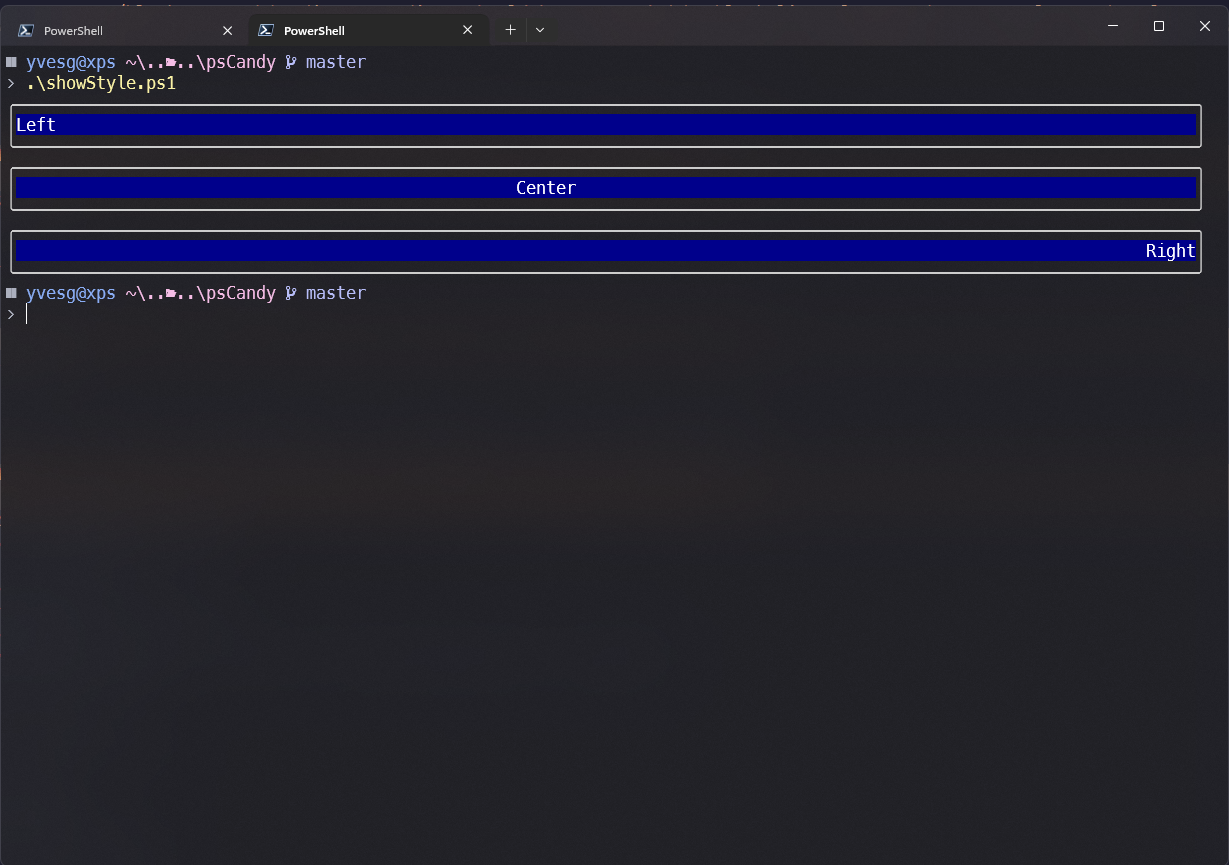
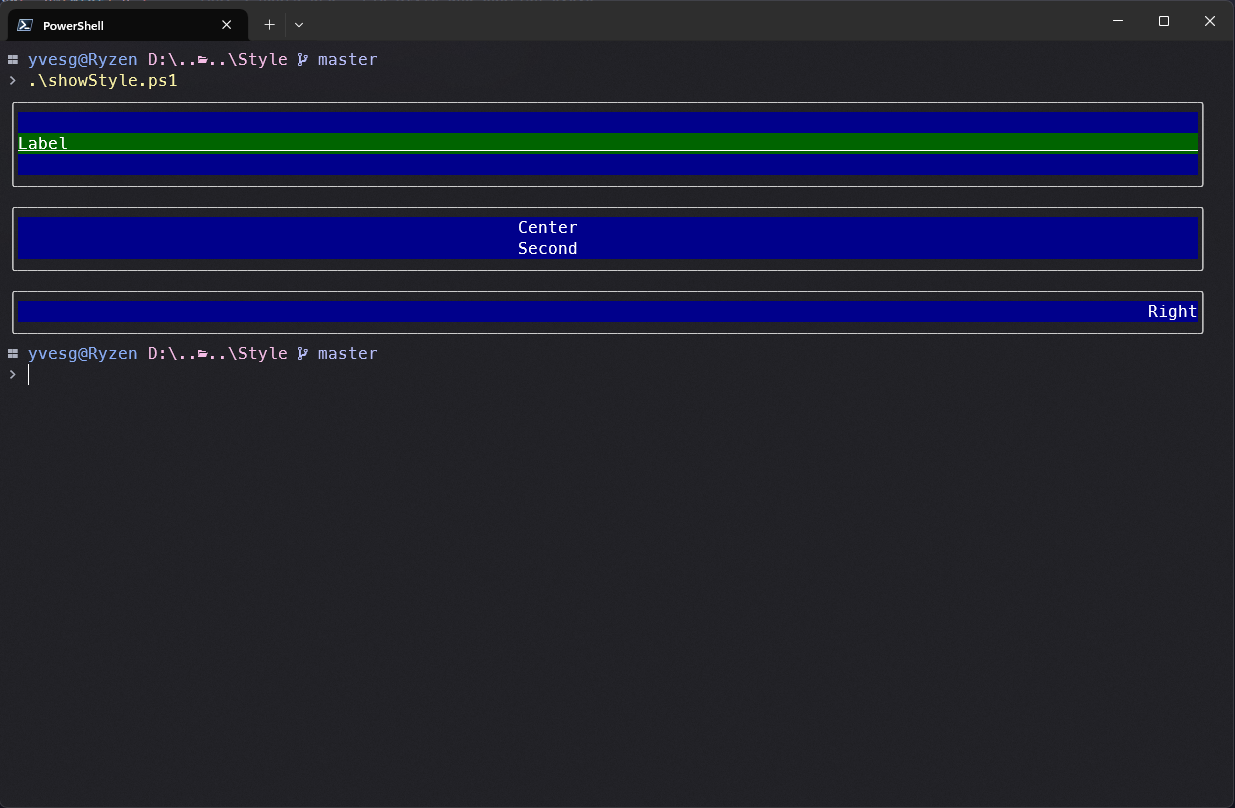
Readme

diff --git a/Readme.md b/Readme.md
@@ -502,13 +502,17 @@ Example :
 ```
 using module psCandy
 
-$Style = [Style]::new("Left")
+$label = [Style]::new("Label")
+$Label.SetColor([System.Drawing.Color]::White, [System.Drawing.Color]::DarkGreen)
+$Label.SetStyle([Styles]::Underline)
+$lbl = $Label.Render()
+$Style = [Style]::new("`n$($lbl)`n")
 # $Style.SetStyle([Styles]::Underline)
 $Style.SetBorder($true)
 $Style.SetColor([System.Drawing.Color]::White, [System.Drawing.Color]::DarkBlue)
 $Style.setAlign([Align]::Left)
 $Style.Render()
-$Style.SetLabel("Center")
+$Style.SetLabel("Center`nSecond")
 $Style.setAlign([Align]::Center)
 $Style.Render()
 # $Style.SetWidth(50)
